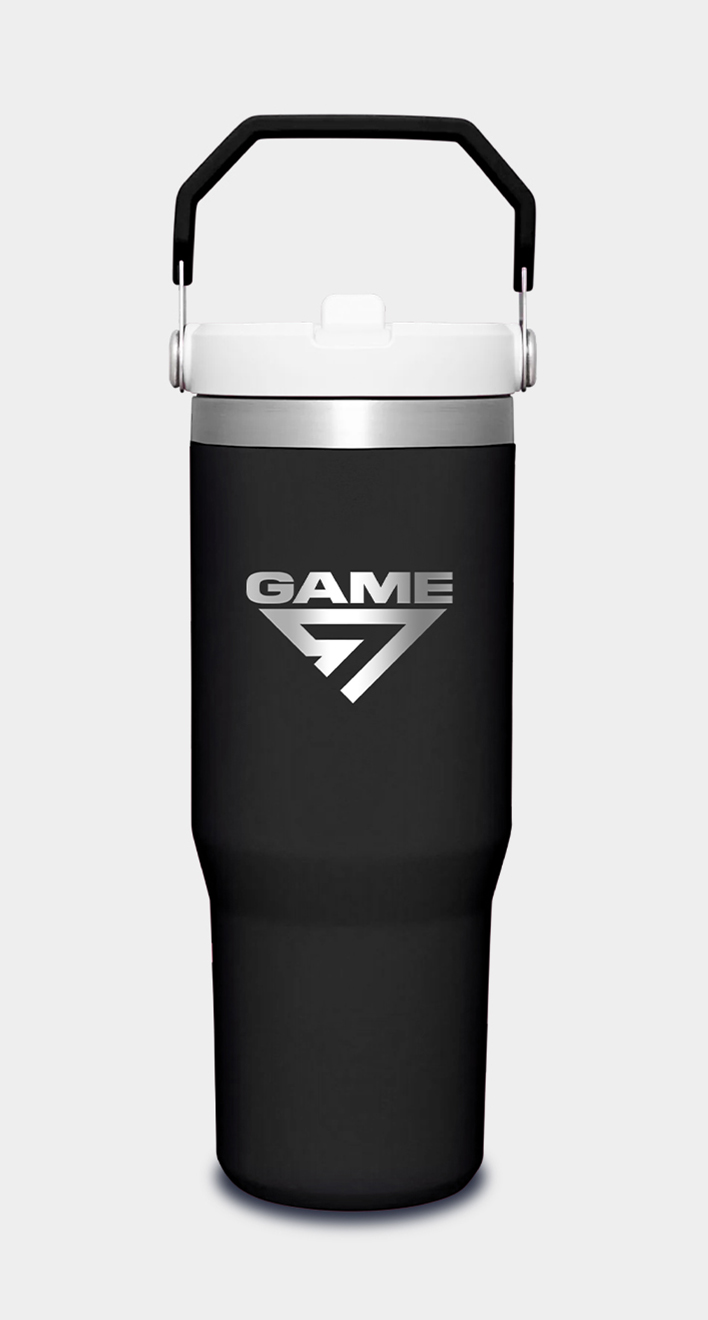
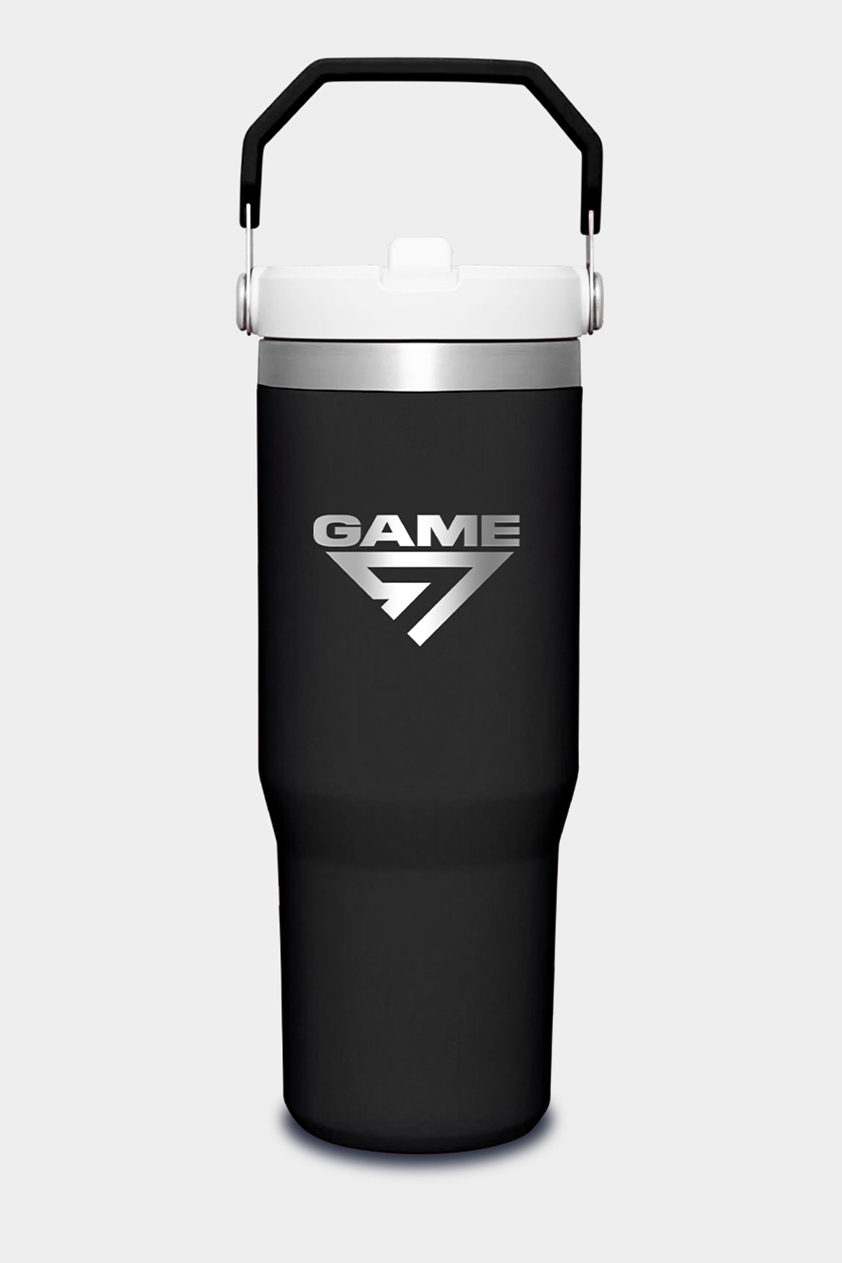
Replace the accessory photos that were cropping badly in the cards.

Changed region(s): [[0.2175, 0.0309, 0.7768, 0.9572], [0.3418, 0.4014, 0.6525, 0.5249]]

diff --git a/src/lib/product-image-position.ts b/src/lib/product-image-position.ts
@@ -4,6 +4,8 @@ export interface ProductImageFrame {
   scale?: number;
   translateY?: string;
   transformOrigin?: string;
+  /** Fills the card behind object-contain shots so studio gray meets the frame. */
+  background?: string;
 }
 
 type ImageStyle = {
@@ -14,7 +16,7 @@ type ImageStyle = {
 
 /**
  * 4:5 card framing for the 2026 core lineup.
- * Tall on-figure shots anchor toward the head. Wide product flats stay fully visible.
+ * Tall on-figure shots anchor toward the head. Hats stay fully visible inside the frame.
  */
 const PRODUCT_IMAGE_FRAMES: Record<string, ProductImageFrame> = {
   "classic-tee": { objectPosition: "center 11%" },
@@ -32,15 +34,8 @@ const PRODUCT_IMAGE_FRAMES: Record<string, ProductImageFrame> = {
   "off-duty-snapback": { fit: "contain", objectPosition: "center center", scale: 1.22, transformOrigin: "center center" },
   "classic-cap": { fit: "contain", objectPosition: "center center", scale: 1.18, transformOrigin: "center center" },
   "off-duty-dad-hat": { fit: "contain", objectPosition: "center center", scale: 1.32, transformOrigin: "center center" },
-  "flip-straw-tumbler": { fit: "contain", objectPosition: "center center", scale: 0.92, transformOrigin: "center center" },
-  "essentials-backpack": { fit: "contain", objectPosition: "center center", scale: 0.96, transformOrigin: "center center" },
-  "leather-duffle": { fit: "contain", objectPosition: "center center", scale: 0.94, transformOrigin: "center center" },
-  "gym-towel": { fit: "contain", objectPosition: "center center", scale: 1, transformOrigin: "center center" },
-  "rally-towel": { fit: "contain", objectPosition: "center center", scale: 1.48, transformOrigin: "center center" },
-  "shaker-bottle": { fit: "contain", objectPosition: "center center", scale: 1.12, transformOrigin: "center center" },
-  "clear-hip-bag": { fit: "contain", objectPosition: "center center", scale: 1.58, transformOrigin: "center center" },
-  "everything-leather-bag": { fit: "contain", objectPosition: "center center", scale: 1.9, transformOrigin: "center center" },
-  "waterproof-weekender": { fit: "contain", objectPosition: "center center", scale: 1.16, transformOrigin: "center center" },
+  // Handle and base sit on the frame edge, so cover would clip them.
+  "flip-straw-tumbler": { fit: "contain", objectPosition: "center center", background: "#eeeeee" },
 };
 
 export function productImageFrame(slug: string): ProductImageFrame | undefined {

diff --git a/src/components/product/ProductCard.tsx b/src/components/product/ProductCard.tsx
@@ -21,12 +21,15 @@ export default function ProductCard({
   const imageFrame = productImageFrame(product.slug);
   const imageStyle = productImageStyle(imageFrame);
   const imageClass = productImageClass(imageFrame);
-  const hoverZoom = imageFrame?.scale ? "" : "group-hover:scale-[1.03]";
+  const hoverZoom = imageFrame?.fit === "contain" || imageFrame?.scale ? "" : "group-hover:scale-[1.03]";
   const heroHover = secondImage ? "group-hover:opacity-0" : "";
 
   return (
     <div className="group block rounded-[2px] border border-transparent transition-colors duration-200 hover:border-g7-yellow">
-      <div className="relative aspect-[4/5] overflow-hidden bg-g7-near-black">
+      <div
+        className="relative aspect-[4/5] overflow-hidden bg-g7-near-black"
+        style={imageFrame?.background ? { backgroundColor: imageFrame.background } : undefined}
+      >
         <Link
           href={`/collection/${product.slug}`}
           className="absolute inset-0 z-[1]"

diff --git a/src/components/product/Gallery.tsx b/src/components/product/Gallery.tsx
@@ -47,7 +47,10 @@ export default function Gallery({ product }: { product: Product }) {
         </div>
       ) : (
         <>
-          <div className="relative aspect-[4/5] overflow-hidden rounded-[2px] bg-g7-near-black">
+          <div
+            className="relative aspect-[4/5] overflow-hidden rounded-[2px] bg-g7-near-black"
+            style={heroFrame?.background ? { backgroundColor: heroFrame.background } : undefined}
+          >
             <Image
               key={current}
               src={current}
@@ -82,6 +85,7 @@ export default function Gallery({ product }: { product: Product }) {
                       ? "border-g7-yellow"
                       : "border-g7-line hover:border-g7-offwhite/40"
                   }`}
+                  style={heroFrame?.background ? { backgroundColor: heroFrame.background } : undefined}
                 >
                   <Image
                     src={src}
